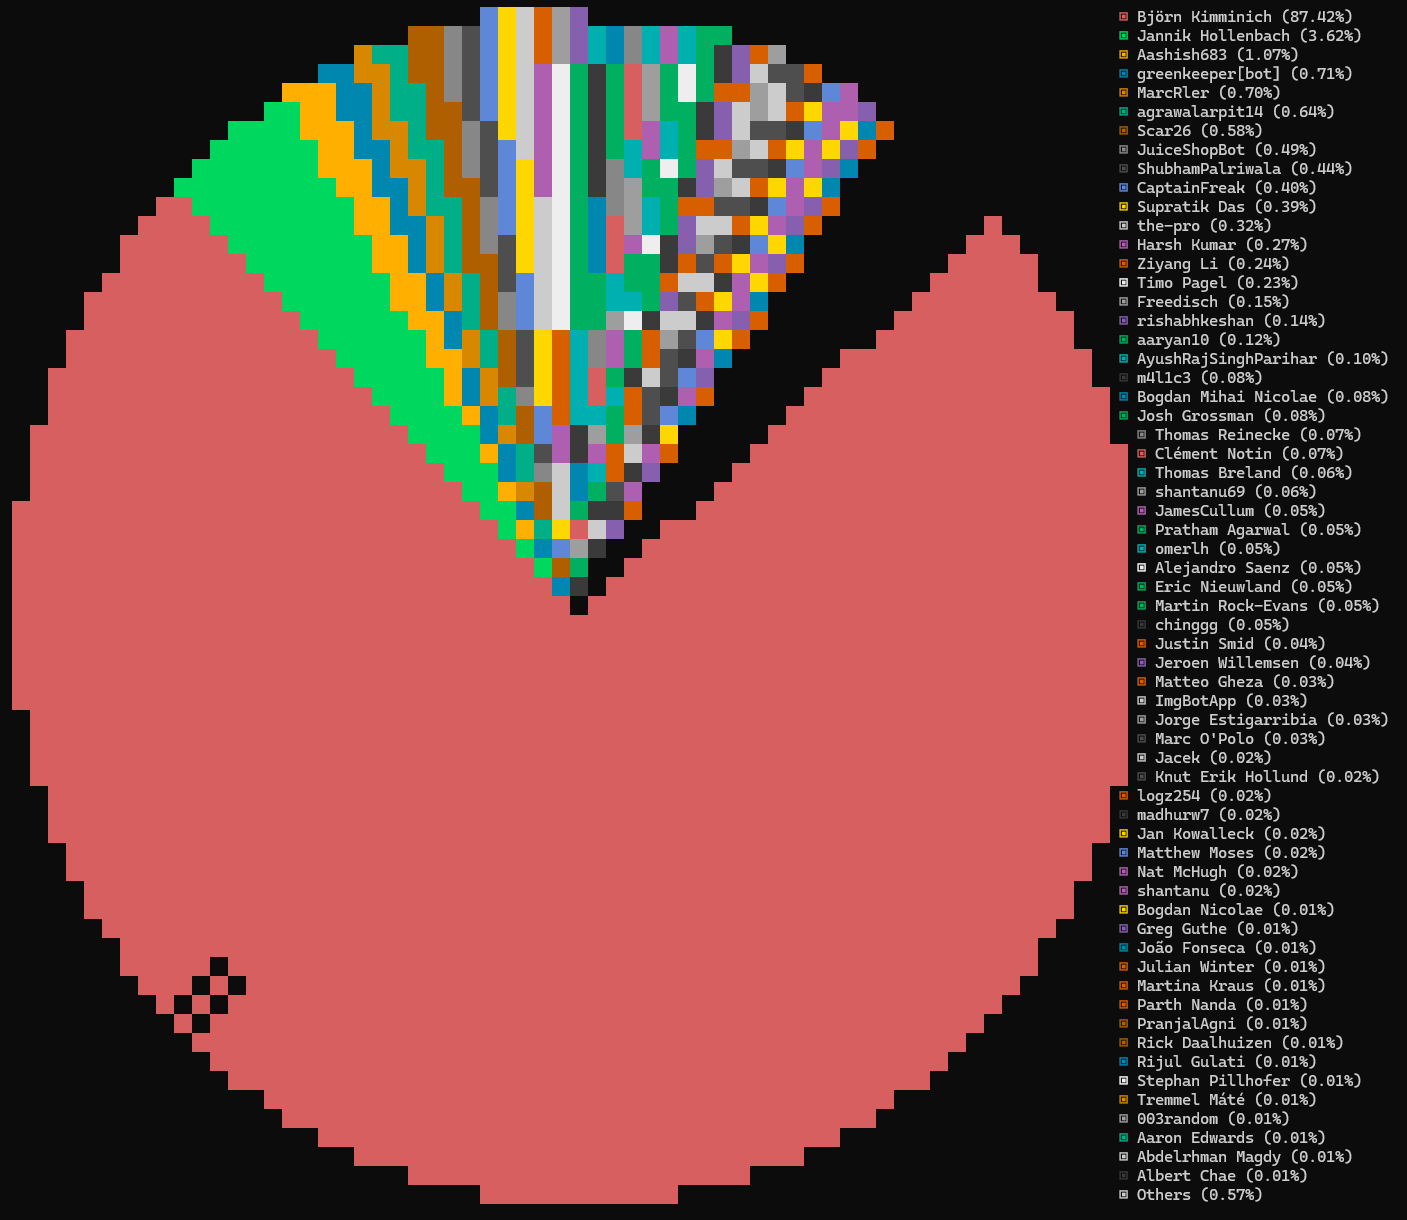
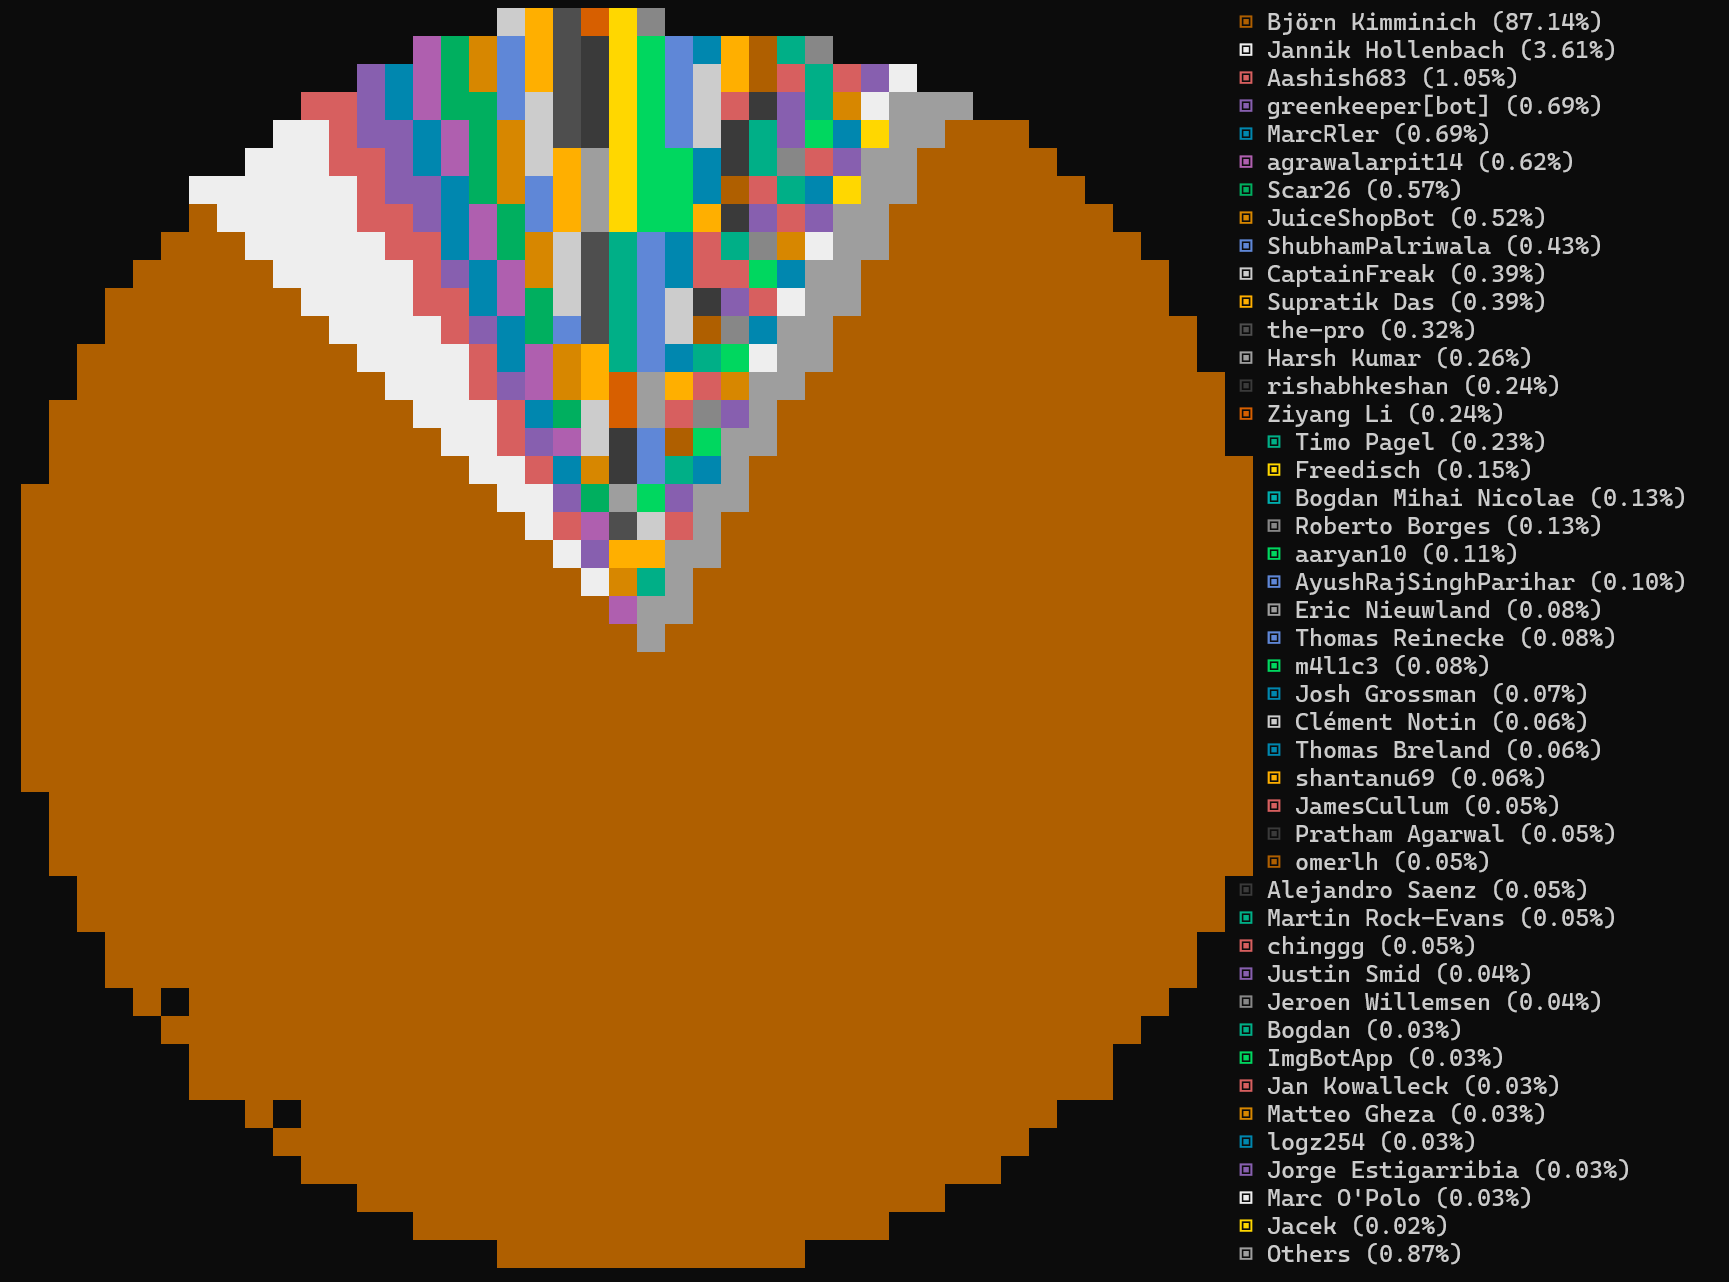
Update git-stats diagram

diff --git a/HALL_OF_FAME.md b/HALL_OF_FAME.md
@@ -2,7 +2,7 @@
 
 ## GitHub Contributors
 
-As reported by [`git-stats -a -s '2014'`](https://www.npmjs.com/package/git-stats) analysis of `master` as of Thu, 19 Jun
+As reported by [`git-stats -a -s '2014'`](https://www.npmjs.com/package/git-stats) analysis of `master` as of Tue, 02 Sep
 2025 after deduplication with `.mailmap`.
 
 ![Top git contributors](screenshots/git-stats.png)
